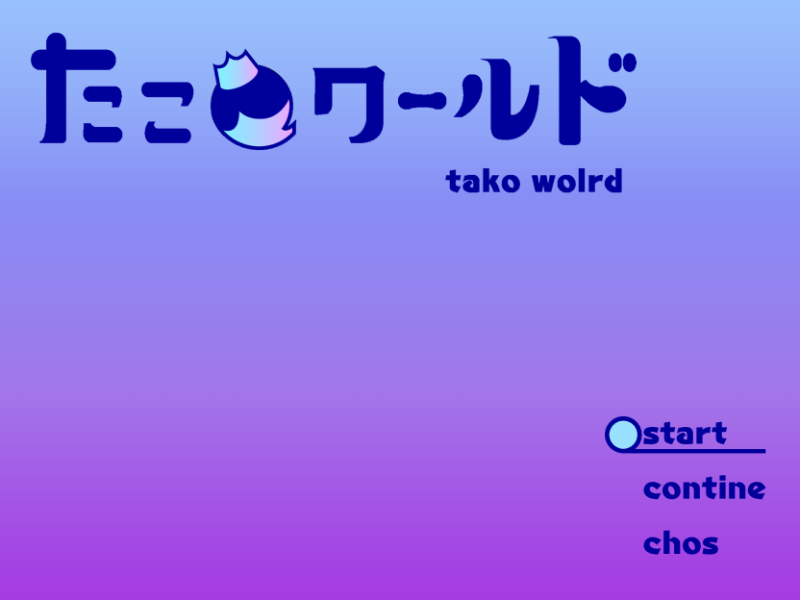
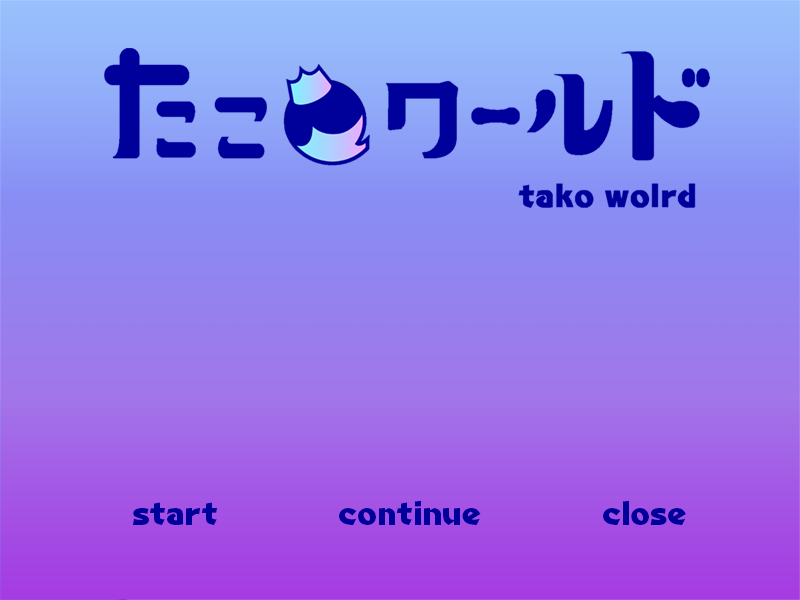
battle

diff --git a/TakoWorld/src/main/TWDisplay.java b/TakoWorld/src/main/TWDisplay.java
@@ -63,9 +63,9 @@ public class TWDisplay extends GameDisplay{
 		boolean pushFlg=false;//ボタンが押されたか判定
 		private int nowChoice=0;//選択しているもの
 		private Point2D.Double[] pos= {
-				new Point2D.Double(100,520),
-				new Point2D.Double(350,520),
-				new Point2D.Double(600,520)
+				new Point2D.Double(70,485),
+				new Point2D.Double(280,485),
+				new Point2D.Double(530,485)
 				};
 
 		@Override
@@ -107,7 +107,7 @@ public class TWDisplay extends GameDisplay{
 				pushFlg=true;
 				SoundBox.singleton.playClip(MUSIC_NUM.BOMB);//効果音を流す
 				tInfo.keyReleased[KEY_STATE.Z]=false;//キーが放されていない状態にする
-			}else if(tInfo.keyState[KEY_STATE.Z]==false) {
+			}else if(tInfo.keyState[KEY_STATE.Z]==false&&tInfo.keyReleased[KEY_STATE.Z]==false) {
 				tInfo.keyReleased[KEY_STATE.Z]=true;//キーが放された状態にする
 			}
 
@@ -116,10 +116,12 @@ public class TWDisplay extends GameDisplay{
 				if(this.nowChoice<2) {
 					this.nowChoice+=1;
 				}
-
+				SoundBox.singleton.playClip(MUSIC_NUM.CHOICE3);//効果音を流す
 				tInfo.keyReleased[KEY_STATE.RIGHT]=false;//キーが放されていない状態にする
-			}else if(tInfo.keyState[KEY_STATE.RIGHT]==false) {
+			}else if(tInfo.keyState[KEY_STATE.RIGHT]==false&&tInfo.keyReleased[KEY_STATE.RIGHT]==false) {
+
 				tInfo.keyReleased[KEY_STATE.RIGHT]=true;//キーが放された状態にする
+				SoundBox.singleton.stopClip(MUSIC_NUM.CHOICE3);//効果音を止める
 			}
 
 			//左
@@ -127,9 +129,12 @@ public class TWDisplay extends GameDisplay{
 				if(this.nowChoice>0) {
 					this.nowChoice-=1;
 				}
+				SoundBox.singleton.playClip(MUSIC_NUM.CHOICE3);//効果音を流す
 				tInfo.keyReleased[KEY_STATE.LEFT]=false;//キーが放されていない状態にする
-			}else if(tInfo.keyState[KEY_STATE.LEFT]==false) {
+			}else if(tInfo.keyState[KEY_STATE.LEFT]==false&&tInfo.keyReleased[KEY_STATE.LEFT]==false) {
+
 				tInfo.keyReleased[KEY_STATE.LEFT]=true;//キーが放された状態にする
+				SoundBox.singleton.stopClip(MUSIC_NUM.CHOICE3);//効果音を止める
 			}
 
 			//待ち時間後の処理
@@ -151,7 +156,7 @@ public class TWDisplay extends GameDisplay{
 		@Override
 		public void loadMedia() throws IOException {
 			this.img_title=ImageIO.read(new File("media/title.png"));
-			this.img_choice=ImageIO.read(new File("media/title.png"));
+			this.img_choice=ImageIO.read(new File("media/choice_icon.png"));
 			//音楽読み込み
 			try {
 				SoundBox.singleton.loadSound(new File("media/sound/bom34.wav"));
@@ -159,6 +164,7 @@ public class TWDisplay extends GameDisplay{
 				SoundBox.singleton.setLoop(MUSIC_NUM.QUESTION, 0, 331000);//ループ設定
 				SoundBox.singleton.loadSound(new File("media/sound/戦闘曲31.wav"));
 				SoundBox.singleton.setLoop(MUSIC_NUM.BATTLE, 10000, 2132000);//ループ設定
+				SoundBox.singleton.loadSound(new File("media/sound/choice3.wav"));
 			}catch (UnsupportedAudioFileException e) {
 				e.printStackTrace();
 			}catch (LineUnavailableException e) {

diff --git a/TakoWorld/src/main/mode/BattleMode.java b/TakoWorld/src/main/mode/BattleMode.java
@@ -76,6 +76,7 @@ public class BattleMode extends GameMode {
 
 	@Override
 	public void keyControl(TWInfo tInfo) {
+		this.nowPhase.keyControl(tInfo);
 		if (tInfo.keyState[KEY_STATE.Z] == true && tInfo.keyReleased[KEY_STATE.Z] == true) {
 			if (this.menu.isMenuTime() == true) {//メニュー画面状態か
 				this.menu.keyControl(tInfo, KEY_STATE.Z, 1);
@@ -134,7 +135,7 @@ public class BattleMode extends GameMode {
 		tInfo.g.drawString("GAME MODE", 100, 100);
 
 		this.nowPhase.show();
-		
+
 		this.menu.draw(tInfo);
 		this.player.draw(tInfo);
 
@@ -153,6 +154,7 @@ public class BattleMode extends GameMode {
 
 	@Override
 	public void stopBGM() {
+		this.sound.stopBGM();
 		return;
 	}
 

diff --git a/TakoWorld/src/main/phase/ClearPhase.java b/TakoWorld/src/main/phase/ClearPhase.java
@@ -1,5 +1,7 @@
 package main.phase;
 
+import main.TWInfo;
+
 public class ClearPhase extends BattlePhase {
 
 	public ClearPhase() {
@@ -8,6 +10,12 @@ public class ClearPhase extends BattlePhase {
 
 	@Override
 	protected void first() {
+		// TODO 自動生成されたメソッド・スタブ
+
+	}
+
+	@Override
+	public void keyControl(TWInfo tInfo) {
 		// TODO 自動生成されたメソッド・スタブ
 
 	}

diff --git a/TakoWorld/src/main/phase/StartPhase.java b/TakoWorld/src/main/phase/StartPhase.java
@@ -1,5 +1,7 @@
 package main.phase;
 
+import main.TWInfo;
+
 public class StartPhase extends BattlePhase {
 
 	public StartPhase() {
@@ -8,6 +10,12 @@ public class StartPhase extends BattlePhase {
 
 	@Override
 	protected void first() {
+		// TODO 自動生成されたメソッド・スタブ
+
+	}
+
+	@Override
+	public void keyControl(TWInfo tInfo) {
 		// TODO 自動生成されたメソッド・スタブ
 
 	}

diff --git a/TakoWorld/src/main/phase/LosePhase.java b/TakoWorld/src/main/phase/LosePhase.java
@@ -1,5 +1,7 @@
 package main.phase;
 
+import main.TWInfo;
+
 public class LosePhase extends BattlePhase {
 
 	public LosePhase() {
@@ -8,6 +10,12 @@ public class LosePhase extends BattlePhase {
 
 	@Override
 	protected void first() {
+		// TODO 自動生成されたメソッド・スタブ
+
+	}
+
+	@Override
+	public void keyControl(TWInfo tInfo) {
 		// TODO 自動生成されたメソッド・スタブ
 
 	}

diff --git a/TakoWorld/src/main/phase/MainPhase.java b/TakoWorld/src/main/phase/MainPhase.java
@@ -1,5 +1,7 @@
 package main.phase;
 
+import main.TWInfo;
+
 public class MainPhase extends BattlePhase {
 
 	public MainPhase() {
@@ -8,6 +10,12 @@ public class MainPhase extends BattlePhase {
 
 	@Override
 	protected void first() {
+		// TODO 自動生成されたメソッド・スタブ
+
+	}
+
+	@Override
+	public void keyControl(TWInfo tInfo) {
 		// TODO 自動生成されたメソッド・スタブ
 
 	}

diff --git a/TakoWorld/src/main/constant/MUSIC_NUM.java b/TakoWorld/src/main/constant/MUSIC_NUM.java
@@ -5,5 +5,6 @@ public class MUSIC_NUM {
 	public static final int BOMB=0;
 	public static final int QUESTION=1;
 	public static final int BATTLE=2;
-	public static final int CHOICE=3;
+	public static final int CHOICE3=3;
+	public static final int CHOICE=4;
 }

diff --git a/TakoWorld/src/main/phase/BattlePhase.java b/TakoWorld/src/main/phase/BattlePhase.java
@@ -1,6 +1,9 @@
 package main.phase;
 
+import main.TWInfo;
+
 public abstract class BattlePhase {
 	protected abstract void first();
+	public abstract void keyControl(TWInfo tInfo);
 	public abstract void show();
 }
